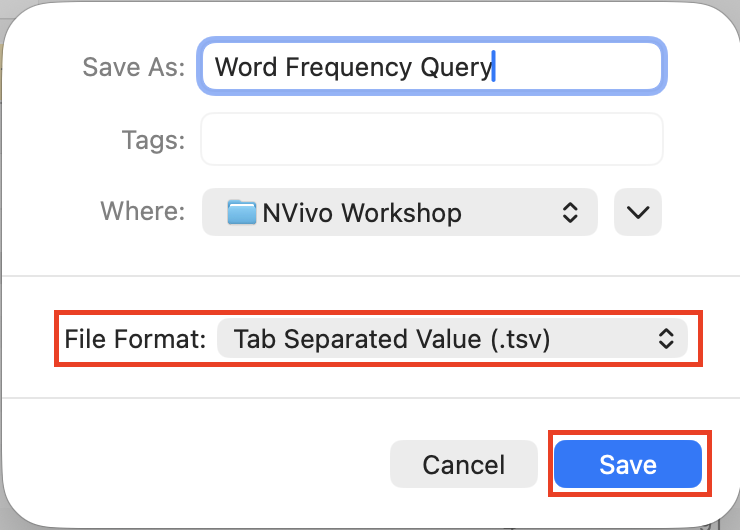
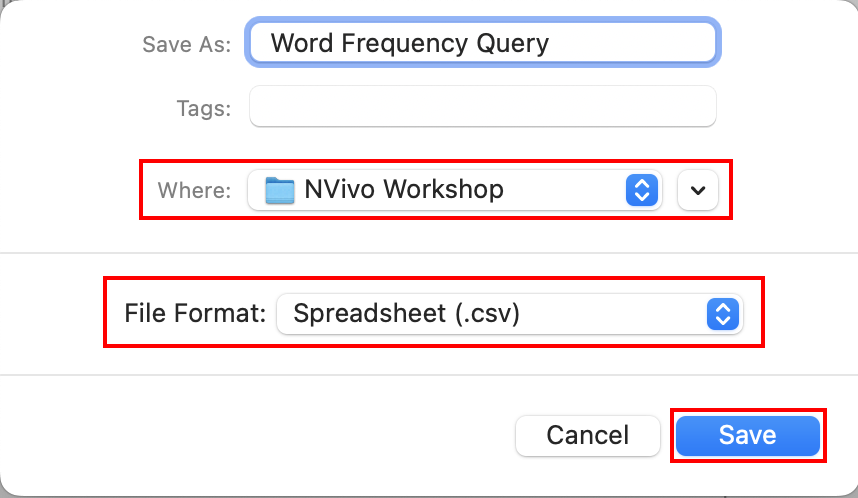
updated content and screenshots for word freq section

diff --git a/docs/part_2_queries/word-frequency-and-text-queries.md b/docs/part_2_queries/word-frequency-and-text-queries.md
@@ -17,11 +17,15 @@ Word Frequency and Text Queries
 
 1. First, make sure you have saved and closed any previous projects you had open using the **File Menu** from the menu bar at the top.
 
-2. Then from the **File Menu or start screen, select Create Copy of Sample Project** to use a ready\-made project that comes with NVivo. Data in this sample project are drawn from a two\-year research study (2008\- 2009\) undertaken by researchers from the Duke University Nicholas School of the Environment at the Duke Marine Laboratory in Beaufort, N.C. The study documented community perceptions of development and land\-use change on coastal communities in the Down East area of Carteret County, North Carolina, USA.
+<img src="{{ '/assets/images/NVivo15_Mac_intro_pt2_001a.png' | relative_url }}" alt='The NVivo 15 main screen with Create a copy of the sample project highlighted.' title='' width='1576' height='974' />
+
+2. Then from the **Start Screen or File Menu, select Create Copy of Sample Project** to use a ready\-made project that comes with NVivo. Data in this sample project are drawn from a two\-year research study (2008\- 2009\) undertaken by researchers from the Duke University Nicholas School of the Environment at the Duke Marine Laboratory in Beaufort, N.C. The study documented community perceptions of development and land\-use change on coastal communities in the Down East area of Carteret County, North Carolina, USA.
 
     <img src="{{ '/assets/images/NVivo15_Mac_intro_pt2_001.png' | relative_url }}" alt='The NVivo 15 main screen with Create a copy of the sample project highlighted.' title='' width='1576' height='974' />
 
-3. A window will pop\-up asking if you want to rename the project and if you want to adjust where it saves. Let’s keep the name, but make sure it is saving with your other workshop files. **Then click on Save**. If an NVivo Tour window opens up, just close it for now. If an NVivo Tour window opens, close it by clicking **Skip Tour**.
+    <img src="{{ '/assets/images/NVivo15_Mac_intro_pt2_001b.png' | relative_url }}" alt='The NVivo 15 main screen with Create a copy of the sample project highlighted.' title='' width='1576' height='974' />
+
+3. A window will pop\-up asking if you want to rename the project and if you want to adjust where it saves. Let’s keep the name, but make sure it is saving with your other workshop files. **Then click on Save**. If an NVivo Tour window opens, close it.
 
     <img src="{{ '/assets/images/NVivo15_Mac_intro_pt2_002.png' | relative_url }}" alt='Save window with Sample Project written in the Save As field. Save highlighted.' title='' width='369' height='204' /><img src="{{ '/assets/images/NVivo15_Mac_intro_pt2_003.png' | relative_url }}" alt='Skip Tour at the top left of the pop-up window is highlighted in a red box.' title='' width='655' height='447' />
 
@@ -29,7 +33,7 @@ Word Frequency and Text Queries
 
     <img src="{{ '/assets/images/NVivo15_Mac_intro_pt2_004.png' | relative_url }}" alt='Explore menu tab outlined in Red.' title='' width='1496' height='238' />
 
-5. Let’s start with the third option – the Word Frequency query, which helps us to identify frequently occurring terms in content. This is a great query to start with to get a sense of the content or topic of your data, by looking at the most common words used in a particular file or your whole project.**Go to the Explore menu and select Word Frequency.**
+5. Let’s start with the third option – the Word Frequency query, which helps us to identify frequently occurring terms in content. This is a great query to start with to get a sense of the content or topic of your data, by looking at the most common words used in a particular file or your whole project. **Go to the Explore menu and select Word Frequency.**
 
     <img src="{{ '/assets/images/NVivo15_Mac_intro_pt2_005.png' | relative_url }}" alt='In the Explore menu, word Frequency highlighted.' title='' width='1496' height='238' />
 
@@ -69,7 +73,7 @@ Word Frequency and Text Queries
 
     <img src="{{ '/assets/images/NVivo15_Mac_intro_pt2_014.png' | relative_url }}" alt='File menu with Project Properties highlighted. ' title='' width='547' height='700' />
 
-15. Here in the General tab, you can select the Text Content Language. The default is English (US), but you can see other options. This doesn’t affect the interface, but is important for certain queries, such as word frequency queries and affects the stop words list. For example, you could have an English interface for NVivo, but be analyzing interview transcripts that are in French, by selecting French here. **Click on the Stop Words… button** to see the list of stop words in use and select Restore Defaults to reset the list to the default, if you wish. Let’s just **click cancel twice** for now and **go back to the results of our query**.
+15. Here in the General tab, you can select the Text Content Language. The default is English (United States), but you can see other options. This doesn’t affect the interface, but is important for certain queries, such as word frequency queries and affects the stop words list. For example, you could have an English interface for NVivo, but be analyzing interview transcripts that are in French, by selecting French here. **Click on the Stop Words… button** to see the list of stop words in use. You can manually add words separated by spaces to this big list if you want. There is a Restore Defaults button that can be used to reset the list to the default, but for now let’s just **click cancel twice** and **go back to the results of our query**.
 
     <img src="{{ '/assets/images/NVivo15_Mac_intro_pt2_015.png' | relative_url }}" alt='Project Properties window with the General tab open. Red box around the Text content language and Stop Words...' title='' width='1442' height='840' /><img src="{{ '/assets/images/NVivo15_Mac_intro_pt2_016.png' | relative_url }}" alt='Stop Words window. Red box around Ok.' title='' width='580' height='322' />
 
@@ -77,13 +81,14 @@ Word Frequency and Text Queries
 
     <img src="{{ '/assets/images/NVivo15_Mac_intro_pt2_017.png' | relative_url }}" alt='Context menu for the summary table with Export... outlined in red.' title='' width='2112' height='742' />
 
-17. **Browse to the workshop folder, give the file a name or keep the default, change the File Format to Tab Separated Value** (to make it a spreadsheet) and **click on Save**.
+17. **Browse to the workshop folder, give the file a name or keep the default, change the File Format to Spreadsheet (.csv)**, and **click on Save**.
 
-    <img src="{{ '/assets/images/NVivo15_Mac_intro_pt2_018.png' | relative_url }}" alt='Save query window with the Save As field filled in with Word Frequency Query. File Format is highlighted and set to Tab Separated Value. Rex box around Save.' title='' width='537' height='385' />
+    <img src="{{ '/assets/images/NVivo15_Mac_intro_pt2_018.png' | relative_url }}" alt='Save query window with the Save As field filled in with Word Frequency Query. File Format is highlighted and set to Comma Separated Value. Rex box around Save.' title='' width='537' height='385' />
 
-18. If we go back to the query results window, just above the table, you will see two tabs: Summary and Word Cloud. We are in the Summary tab. **Click on Word Cloud**. This shows the more frequent words, where the larger the word is, the more frequently it occurs, which is a common way to display this type of result. (Might take a few seconds to load). *Note that currently there is a bug in the newer versions of NVivo, so you are unable to change the colours, but normally you can click on a Gallery button to select different themes to customize your word cloud.*
+18. If we go back to the query results window, just above the table, you will see two tabs: Summary and Word Cloud. We are in the Summary tab. **Click on Word Cloud**. This shows the more frequent words, where the larger the word is, the more frequently it occurs, which is a common way to display this type of result. (Might take a few seconds to load). You can click on the **Gallery button** to select different themes to customize your word cloud.
 
     <img src="{{ '/assets/images/NVivo15_Mac_intro_pt2_019.png' | relative_url }}" alt='In the query results the Word Cloud tab is selected.' title='' width='2128' height='1314' />
+    <img src="{{ '/assets/images/NVivo15_Mac_intro_pt2_019b.png' | relative_url }}" alt='In the query results the Word Cloud tab is selected.' title='' width='2128' height='1314' />
 
 19. You can also **hold down the Control key and click on the word cloud**, and then **select Export to export it as an image or PDF** to use later in a report.
 
@@ -125,7 +130,7 @@ Word Frequency and Text Queries
 
     <img src="{{ '/assets/images/NVIVO_MAC_Word%20and%20Text_28.png' | relative_url }}" alt='Text Search Query window results with a red box around the Word Tree tab.' title='' width='1954' height='1448' />
 
-29. You can normally click on **family** to toggle between “family” and “families.” \[But there is a bug that sometimes crashes NVivo when toggling, so I would avoid doing this right now.]
+29. You can click on **family** to toggle between “family” and “families.”
 
     <img src="{{ '/assets/images/NVIVO_MAC_Word%20and%20Text_29.png' | relative_url }}" alt='the drop-down menu under family opened and highlighted.' title='' width='699' height='354' />
 